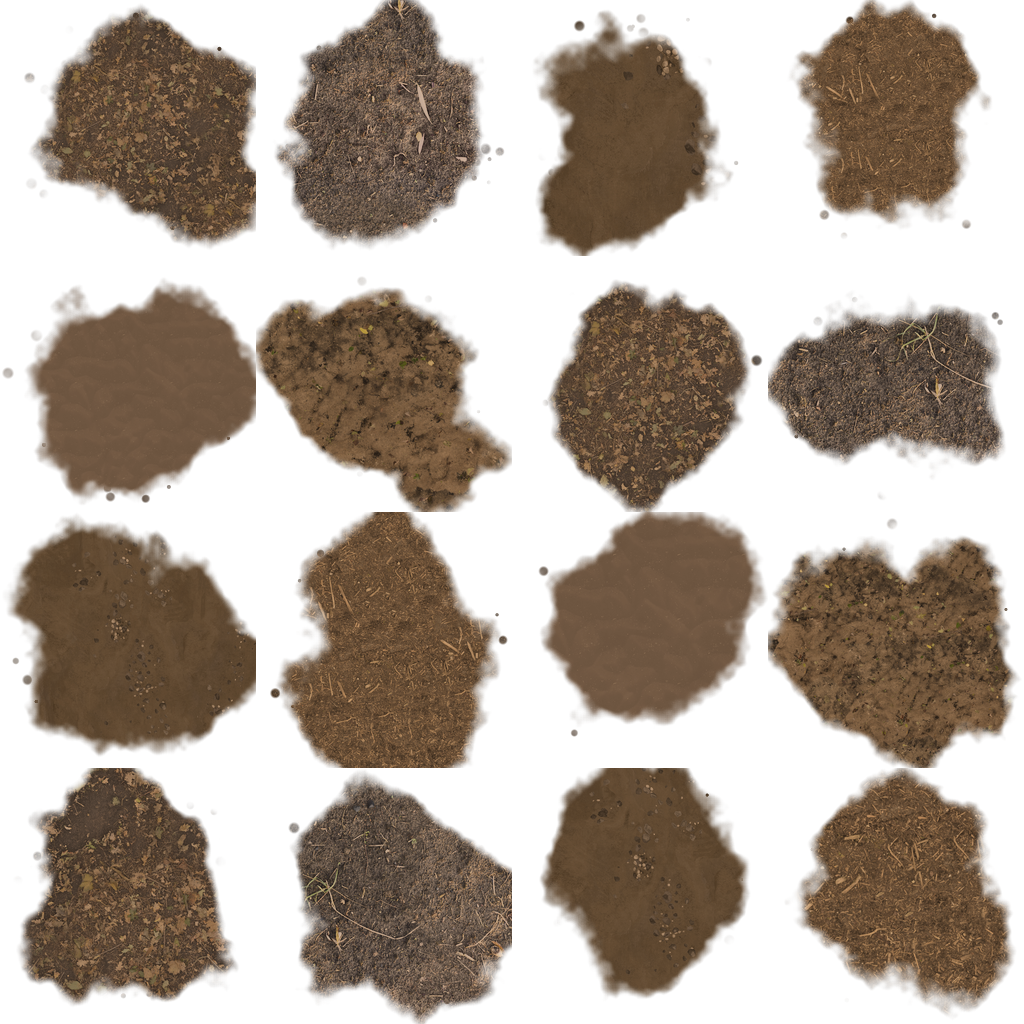
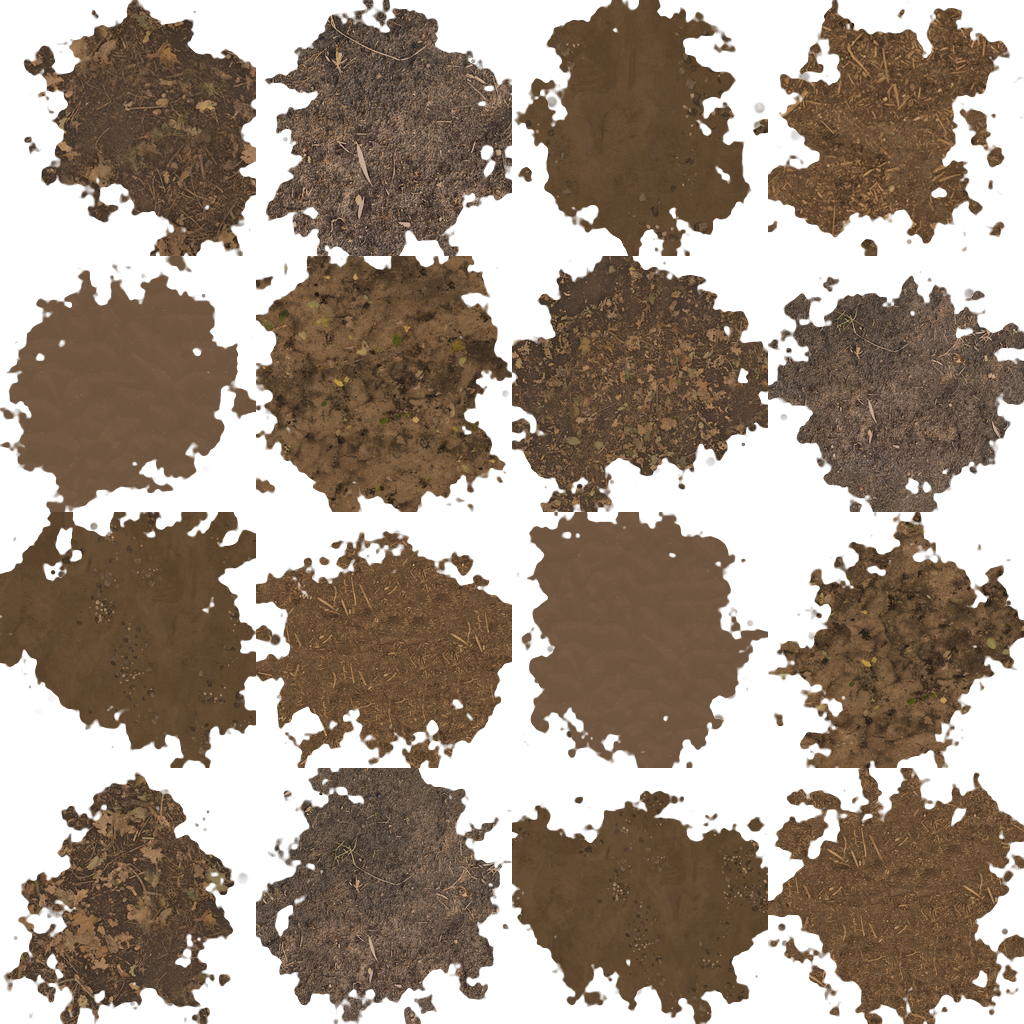
Mud: smaller splats with ragged real-photo edges, the underside no longer soaks up the mud, a respawned car starts its dirt build-up over (snow and forced mud drew nothing on a replaced car with the same id)

diff --git a/mod/vehicles/common/carSurfaceFx/scratch.js b/mod/vehicles/common/carSurfaceFx/scratch.js
@@ -104,7 +104,7 @@
       a = atlases[kind] = { img: new Image(), ok: false };
       a.img.onload = function () { a.ok = true; dirty = true; buildWear(); redraw(); };
       a.img.onerror = function () { a.bad = true; };
-      a.img.src = 'local://local/art/surfacefx/splats/' + kind + '.png?v=1';
+      a.img.src = 'local://local/art/surfacefx/splats/' + kind + '.png?v=2';
     }
     return a.ok ? a.img : null;
   }

diff --git a/tools/make_real_splats.py b/tools/make_real_splats.py
@@ -82,7 +82,8 @@ def droplets(rng, n, count, rmin, rmax, ring=(0.5, 0.95)):
 def mud_cell(rng, img):
     r = radial(CELL)
     n = fbm(rng, CELL, 3, 5)
-    body = smooth(n * 0.9 + (1 - r ** 1.4) * 0.75 - 0.55, 0.0, 0.14)          # a lumpy blob with a soft broken edge
+    fine = fbm(rng, CELL, 14, 3)                                                # fine noise breaks the edge up into crumbs
+    body = smooth(n * 0.9 + (1 - r ** 1.4) * 0.75 - 0.55 + (fine - 0.5) * 0.7, 0.0, 0.05)      # a lumpy blob with a ragged broken edge
     drops = droplets(rng, CELL, int(rng.integers(10, 22)), 2, 7) * smooth(n, 0.25, 0.6)
     a = np.clip(np.maximum(body, drops), 0, 1)
     edge = np.clip(1 - smooth(body, 0.0, 0.6), 0, 1)[..., None]                # a darker rim where it is thin
